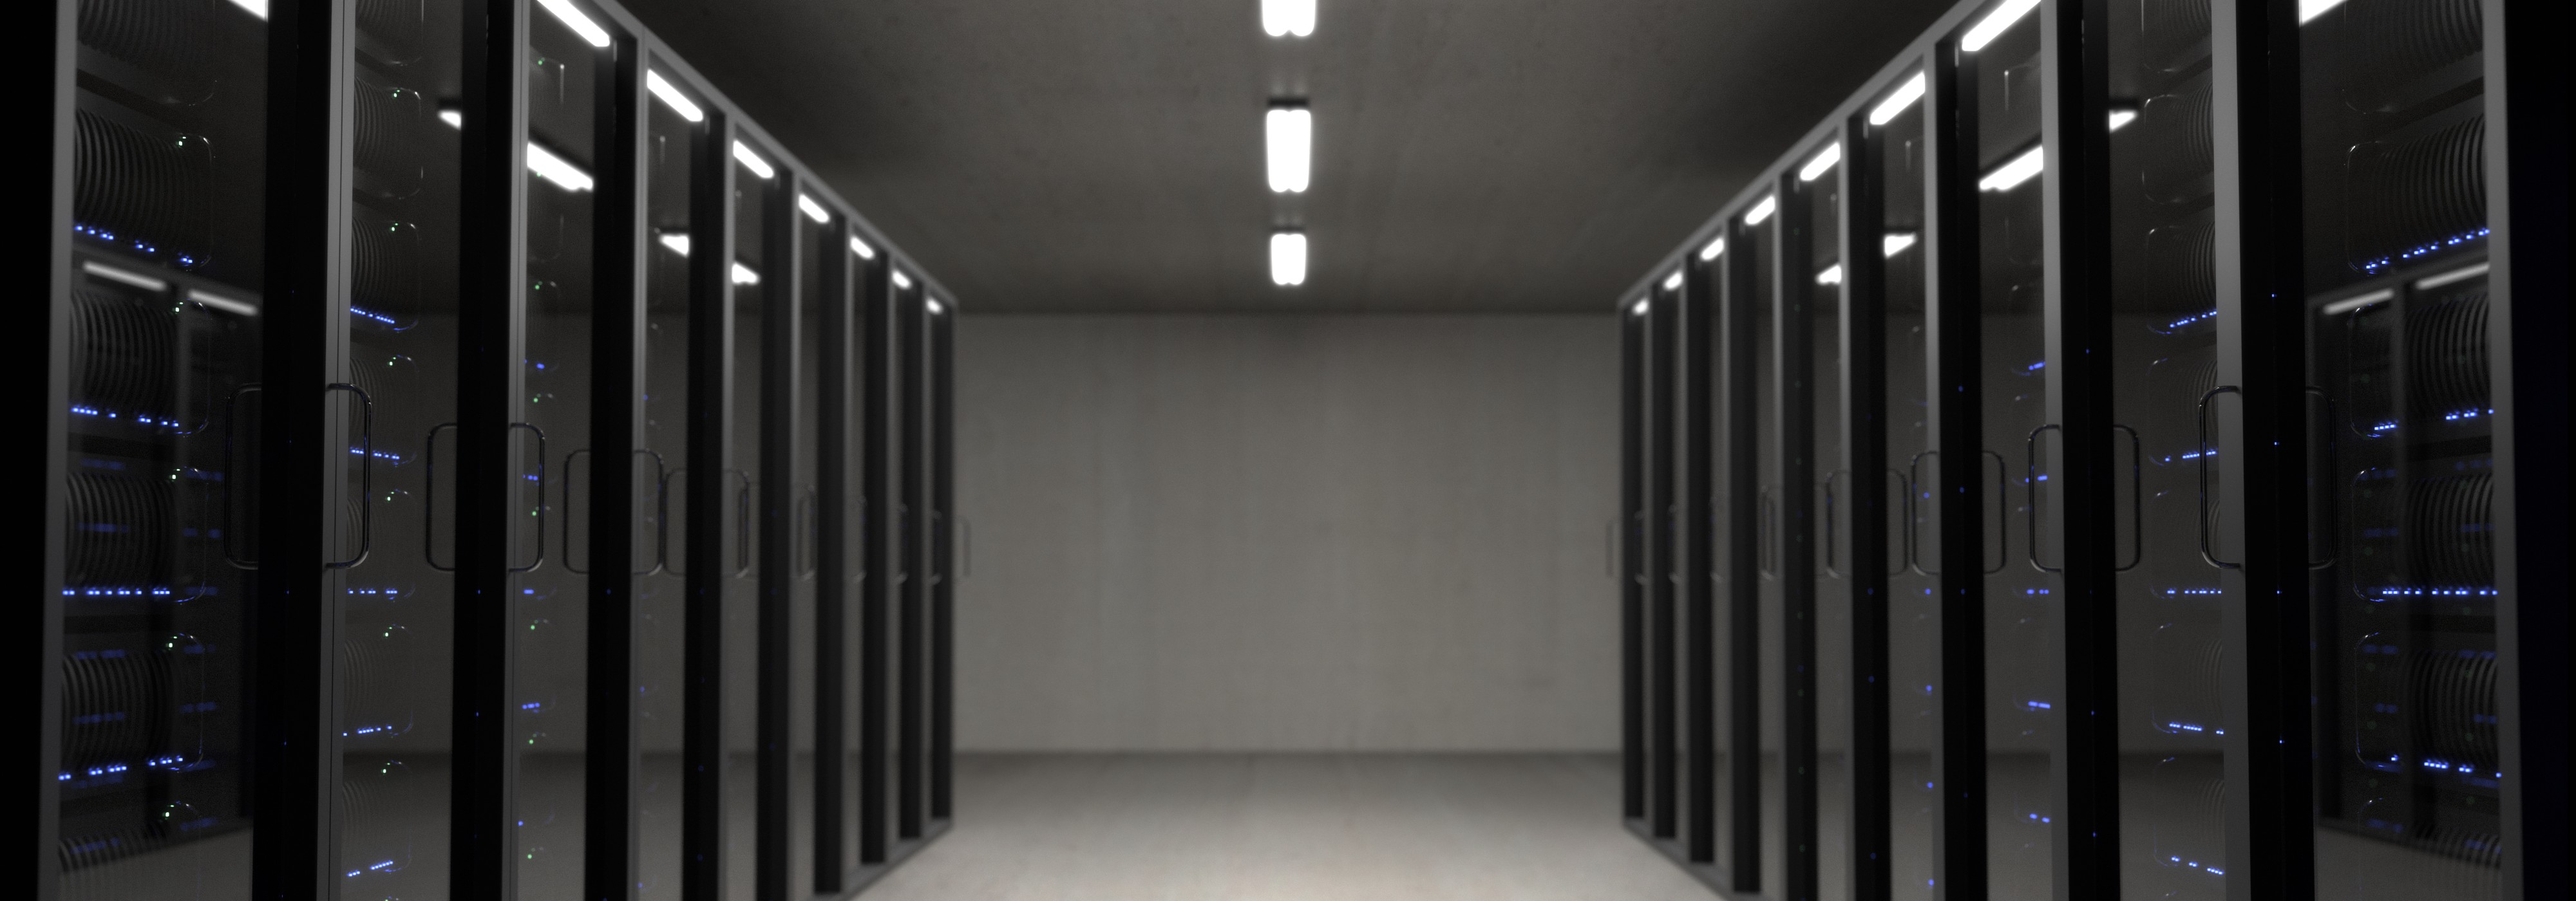
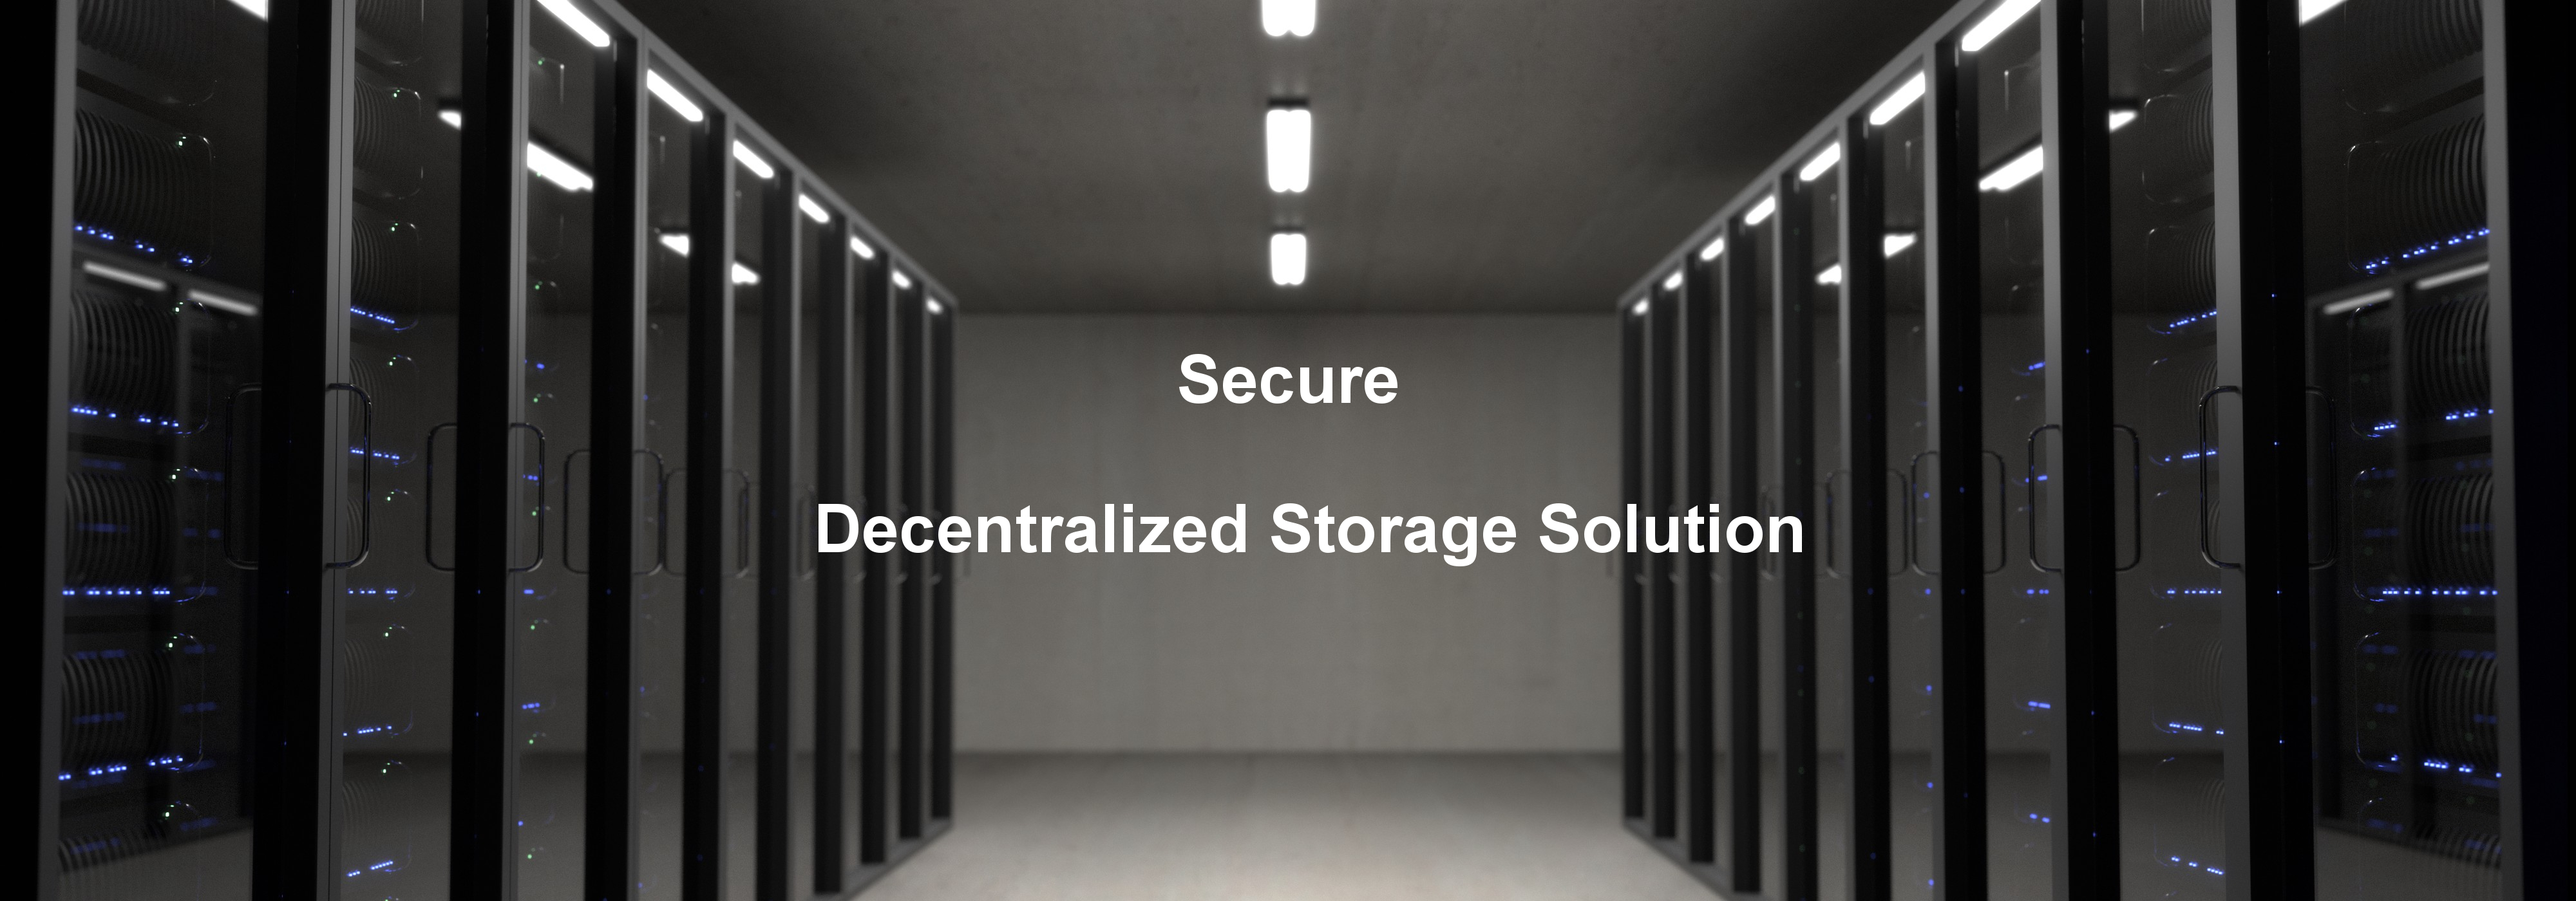
Changed tags

Changed region(s): [[0.3125, 0.5529, 0.7188, 0.645], [0.4375, 0.3993, 0.5625, 0.4607]]

diff --git a/index.html b/index.html
@@ -12,26 +12,25 @@
     </head>
     <body>
     <header>
-        <div class="container">
-            <div id="branding">
-            <h1><span class="highlight">Syzygyy</span> Blockchain</h1>
-            </div>
+        <section class="container">
+            <article id="branding">
+                <h1><span class="highlight">Syzygyy</span> Blockchain</h1>
+            </article>
             <nav>
-            <ul>
-                <li class="current"><a href="index.html"><i class="fa fa-home" aria-hidden="true"></i> Home</a></li>
-                <li><a href="about.html"><i class="fa fa-users" aria-hidden="true"></i> About</a></li>
-                <li><a href="product.html"><i class="fa fa-code" aria-hidden="true"></i> Product</a></li>
-                <li><a href="contact.html"><i class="fa fa-map-marker" aria-hidden="true"></i> Contact</a></li>
-            </ul>
+                <ul>
+                    <li class="current"><a href="index.html"><i class="fa fa-home" aria-hidden="true"></i> Home</a></li>
+                    <li><a href="about.html"><i class="fa fa-users" aria-hidden="true"></i> About</a></li>
+                    <li><a href="product.html"><i class="fa fa-code" aria-hidden="true"></i> Product</a></li>
+                    <li><a href="contact.html"><i class="fa fa-map-marker" aria-hidden="true"></i> Contact</a></li>
+                </ul>
             </nav>
-        </div>
+        </section>
     </header>
-    <div id="index-showcase">
-        <h2>Secure<br>Decentralized Storage Solution</h2>
+    <section id="index-showcase">
         <img src="images/servers.jpeg" alt="picture">
-    </div>
-    <div class="container">
-        <div id="index-text">
+    </section>
+    <section class="container">
+        <article id="index-text">
             <h1>SyzygyySTORAGE</h1>
             <h2>Improved Privacy</h2>
             <p>SyzygyySTORAGE encrypts your files and distributes them across a decentralized network. Since only you hold the keys, you own your data. No outside
@@ -39,51 +38,52 @@
                 providers.</p>
             <h2>Affordable Compared to Traditional Solutions</h2>
             <p>SyzygyySTORAGE's decentralized cloud is on average 20x less expensive than current cloud storage providers. Storing 1TB on SyzygyySTORAGE costs about $1 per month, 
-                compared with $23 on AWS</p>
+                compared with $23 on AWS</p><br>
             <a href="product.html" class="button_2"><i class="fa fa-info-circle" aria-hidden="true"></i> More Features</a>
-        </div>
+        </article>
         <i id="index-harddrive" class="fa fa-hdd-o fa-5x" aria-hidden="true"></i>
-    </div>
-    <div id="index-about">
+    </section>
+    <section id="index-about">
         <img src="images/person.jpeg" alt="person">
         <div class="wrapper">
         <h1>Who are we?</h1>
-        <p>We are a group of Developers, Designers and Entrepreneurs that came together for an hackathon. The idea of SyzygyySTORAGE was originally conceived at AngelHack 
-            hackathon, our team managed to secure first place and was invited to the 12 week HACKcelerator program, we learnt a lot through the help of our friendly and 
-            amazing mentors. After the program we started our company Syzygyy with our first product SyzygyySTORAGE thanks to our investors and we are now one of the 
-            biggest startups in the world!
-        </p>
-        <a href="about.html" class="button_2"><i class="fa fa-info-circle" aria-hidden="true"></i> More About US</a>
+            <p>We are a group of Developers, Designers and Entrepreneurs that came together for an hackathon. The idea of SyzygyySTORAGE was originally conceived at AngelHack 
+                hackathon, our team managed to secure first place and was invited to the 12 week HACKcelerator program, we learnt a lot through the help of our friendly and 
+                amazing mentors. After the program we started our company Syzygyy with our first product SyzygyySTORAGE thanks to our investors and we are now one of the 
+                biggest startups in the world!
+            </p>
+            <br>
+            <a href="about.html" class="button_2"><i class="fa fa-info-circle" aria-hidden="true"></i> More About US</a>
         </div>
-    </div>
-    <div id="index-stats">
+    </section>
+    <section id="index-stats">
         <h1>Company Stats</h1>
-        <div class="left">
+        <article class="left">
             <i class="fa fa-handshake-o fa-5x" aria-hidden="true"></i>
             <h1>149 Thousand</h1>
             <h2>Active clients</h2>
-        </div>
-        <div class="mid">
+        </article>
+        <article class="mid">
             <i class="fa fa-server fa-5x" aria-hidden="true"></i>
             <h1>41 Hundred</h1>
             <h2>Active nodes</h2>
-        </div>
-        <div class="right">
+        </article>
+        <article class="right">
             <i class="fa fa-database fa-5x" aria-hidden="true"></i>
             <h1>89 Petabytes</h1>
             <h2>Data Stored</h2>
-        </div>
-    </div>
-    <div id="index-clients">
+        </article>
+    </section>
+    <section id="index-clients">
         <h1>What Our Clients Are Saying</h1>
-        <div class="text">
-        <h2>"Happy to say after nine months of using SyzygyySTORAGE (and only SyzygyySTORAGE) for all our storage needs
-            we have expirenced 100% uptime and amazing after sales support. It is amazing!"</h2>
+        <article class="text">
+        <h2>&ldquo;Happy to say after nine months of using SyzygyySTORAGE (and only SyzygyySTORAGE) for all our storage needs
+            we have expirenced 100% uptime and amazing after sales support. It is amazing!&rdquo;</h2>
         <p>Tyrell Wellick, Chief Technology Officer, Evil Corporation</p>
-        </div>
-    </div>
+        </article>
+    </section>
     <footer class="footer-distributed">
-        <div class="footer-left">
+        <article class="footer-left">
             <h1><span class="highlight">Syzygyy</span> Blockchain</h1>
             <p class="footer-links">
                 <a href="index.html">Home</a>
@@ -95,8 +95,8 @@
                 <a href="contact.html">Contact</a>
             </p>
             <p class="footer-company-name">Copyright &copy; 2017 Syzygyy</p>
-        </div>
-        <div class="footer-center">
+        </article>
+        <article class="footer-center">
             <div>
                 <i class="fa fa-map-marker"></i>
                 <p><span>30 Science Park Road</span> Singapore, Singapore</p>
@@ -109,11 +109,12 @@
                 <i class="fa fa-envelope"></i>
                 <p><a href="mailto:info@syzygyy.com">info@syzygyy.com</a></p>
             </div>
-        </div>
-        <div class="footer-right">
+        </article>
+        <article class="footer-right">
             <p class="footer-company-about">
                 <span>About the company</span>
-                Lorem ipsum dolor sit amet, consectateur adispicing elit. Fusce euismod convallis velit, eu auctor lacus vehicula sit amet.
+                Providing the most Affordable Enterprise Blockchain Storage Solution
+                with no comprimise on security and uptime.
             </p>
             <div class="footer-icons">
                 <a href="https://www.facebook.com" target='_blank'><i class="fa fa-facebook"></i></a>
@@ -121,7 +122,7 @@
                 <a href="https://www.linkedin.com" target='_blank'><i class="fa fa-linkedin"></i></a>
                 <a href="https://github.com" target='_blank'><i class="fa fa-github"></i></a>
             </div>
-        </div>
+        </article>
     </footer>
     </body>
 </html>

diff --git a/main.css b/main.css
@@ -1,11 +1,15 @@
 /* Global */
+* {
+	padding:0;
+	margin:0;
+	border: 0;
+}
+
 body, html {
     font: 15px/1.5 Arial, Helvetica,sans-serif;
-    padding:0;
-    margin:0;
-		background-color:#f4f4f4;
-		width: 100%;
-		height: 100%;
+	background-color:#f4f4f4;
+	width: 100%;
+	height: 100%;
 }
 
 .container {
@@ -16,6 +20,7 @@ body, html {
 
 h1 {
 	font-family: 'Alegreya', serif;
+	font-size: 30px;
 }
 
 h2 {
@@ -33,12 +38,12 @@ ul {
 
 /* For forms */
 .button_1 {
-  height:38px;
-  background:#A96DA3;
-  border:0;
+	height:38px;
+	background:#A96DA3;
+	border:0;
 	padding-top: 12px;
 	padding-bottom: 15px;
-  color:#ffffff;
+	color:#ffffff;
 }
 
 .button_1:hover {
@@ -53,10 +58,10 @@ ul {
 
 /* For urls */
 .button_2 {
-  height:38px;
-  background:#A96DA3;
-  border:0;
-	padding: 1.4% 3%;;
+	height:38px;
+	background:#A96DA3;
+	border:0;
+	padding: 1.4% 3%;
 	color:#ffffff;
 	text-decoration: none;
 	font-size: 1.5em;
@@ -76,17 +81,17 @@ ul {
 /* Header **/
 header {
     background:#292c2f;
-		color:#ffffff;
+	color:#ffffff;
     padding-top: 30px;
     min-height:70px;
     border-bottom:#A96DA3 3px solid;
 }
   
 header a {
-  color:#ffffff;
-  text-decoration:none;
-  text-transform: uppercase;
-  font-size:16px;
+	color:#ffffff;
+	text-decoration:none;
+	text-transform: uppercase;
+	font-size:16px;
 }
 
 header li {
@@ -254,37 +259,35 @@ header a:hover {
 }
 
 @media (max-width: 900px) {
-	
-		.footer-distributed{
-			font: bold 14px sans-serif;
-		}
-	
-		.footer-distributed .footer-left,
-		.footer-distributed .footer-center,
-		.footer-distributed .footer-right{
-			display: block;
-			width: 100%;
-			margin-bottom: 40px;
-			text-align: center;
-		}
-	
-		.footer-distributed .footer-center i{
-			margin-left: 0;
-		}
-	
+	.footer-distributed{
+		font: bold 14px sans-serif;
 	}
+
+	.footer-distributed .footer-left,
+	.footer-distributed .footer-center,
+	.footer-distributed .footer-right{
+		display: block;
+		width: 100%;
+		margin-bottom: 40px;
+		text-align: center;
+	}
+
+	.footer-distributed .footer-center i{
+		margin-left: 0;
+	}
+}
 
 /* Index page */
 /* Secure decenntralized storage solution */
 #index-showcase h2 {
-	font-size: 3em;
-  color: #ffffff;
-  letter-spacing: 2px;
-  pointer-events: none;
-  position: absolute;
-  top: 35%;
-  left: 0;
-  right: 0;
+	font-size: 3rem;
+	color: #ffffff;
+	letter-spacing: 2px;
+	pointer-events: none;
+	position: absolute;
+	top: 35%;
+	left: 0;
+	right: 0;
 	text-align: center;
 }
 
@@ -298,7 +301,7 @@ header a:hover {
 	float: left;
 	width: 70%;
 	padding: 2%;
-	padding-bottom: 5%;
+	padding-bottom: 50px;
 }
 
 #index-harddrive {

diff --git a/about.html b/about.html
@@ -27,7 +27,7 @@
     </header>
     <div id="about-mission">
         <h1>Our Mission</h1>
-        <p>SyzygyySTORAGE is the first and only data governance platform developed by real users for real users.</p>
+        <p><b>SyzygyySTORAGE</b> is the first and only data governance platform developed by real users for real users.</p>
     </div>
     <div id="about-clients">
         <h1>Our Clients</h1>
@@ -38,7 +38,6 @@
             <li><img src="images/UmbrellaCorporation.png" alt="Umbrella Corporation"></li>
             <li><img src="images/sp.png" alt="Singapore Polytechnic"></li>
             <li><img src="images/samsung.png" alt="Samsung"></li>
-            
         </ul>
     </div>
     <div id="about-investors">
@@ -76,7 +75,8 @@
         <div class="footer-right">
             <p class="footer-company-about">
                 <span>About the company</span>
-                Lorem ipsum dolor sit amet, consectateur adispicing elit. Fusce euismod convallis velit, eu auctor lacus vehicula sit amet.
+                Providing the most Affordable Enterprise Blockchain Storage Solution
+                with no comprimise on security and uptime.
             </p>
             <div class="footer-icons">
                 <a href="https://www.facebook.com" target='_blank'><i class="fa fa-facebook"></i></a>

diff --git a/contact.html b/contact.html
@@ -29,7 +29,9 @@
     <div class="contact-wrapper">
         <div class="contact-info">
             <h2>Headquarters</h2>
-            <p>Science Park 2 30 Science Park Road Singapore 117512<br>Tel: (+65) 6777 8999<br>Email: info@syzygyy.com</p>
+            <p>Science Park 2 30 Science Park Road Singapore 117512
+            <br>Tel: <a href="tel:+6567778999">+65 6777 8999</a>
+            <br>Email: <a href="mailto:info@syzygyy.com">info@syzygyy.com</a></p>
             <h2>Operation Hours</h2>
             <p>Mon-Fri: 10am to 6pm | Sat-Sun &amp; Public Holidays: Closed</p>
         </div>
@@ -75,7 +77,8 @@
         <div class="footer-right">
             <p class="footer-company-about">
                 <span>About the company</span>
-                Lorem ipsum dolor sit amet, consectateur adispicing elit. Fusce euismod convallis velit, eu auctor lacus vehicula sit amet.
+                Providing the most Affordable Enterprise Blockchain Storage Solution
+                with no comprimise on security and uptime.
             </p>
             <div class="footer-icons">
                 <a href="https://www.facebook.com" target='_blank'><i class="fa fa-facebook"></i></a>

diff --git a/product.html b/product.html
@@ -61,7 +61,8 @@
         <div class="footer-right">
             <p class="footer-company-about">
                 <span>About the company</span>
-                Lorem ipsum dolor sit amet, consectateur adispicing elit. Fusce euismod convallis velit, eu auctor lacus vehicula sit amet.
+                Providing the most Affordable Enterprise Blockchain Storage Solution
+                with no comprimise on security and uptime.
             </p>
             <div class="footer-icons">
                 <a href="https://www.facebook.com" target='_blank'><i class="fa fa-facebook"></i></a>
